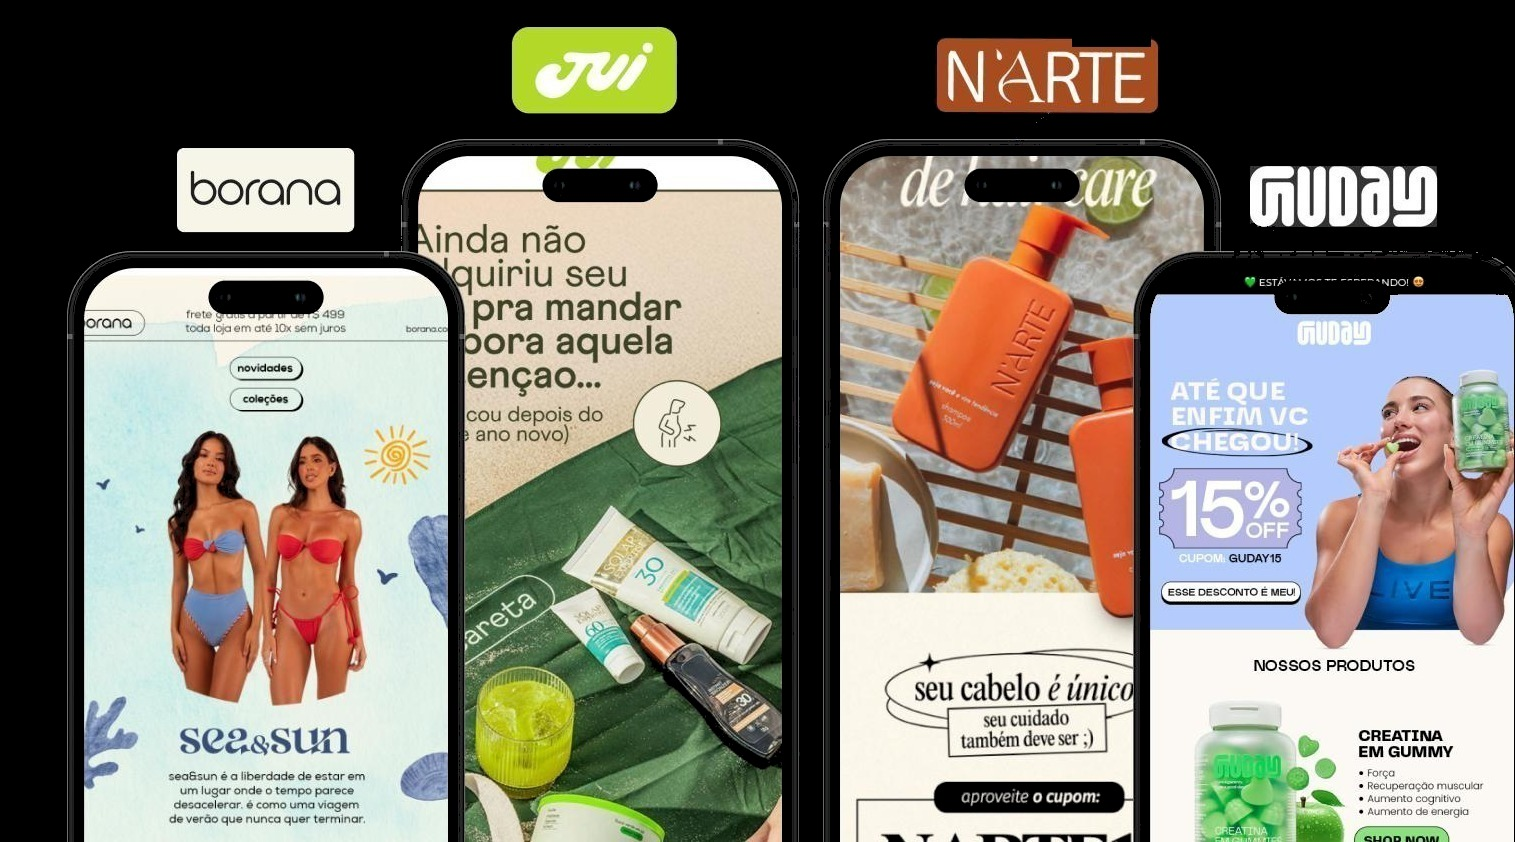
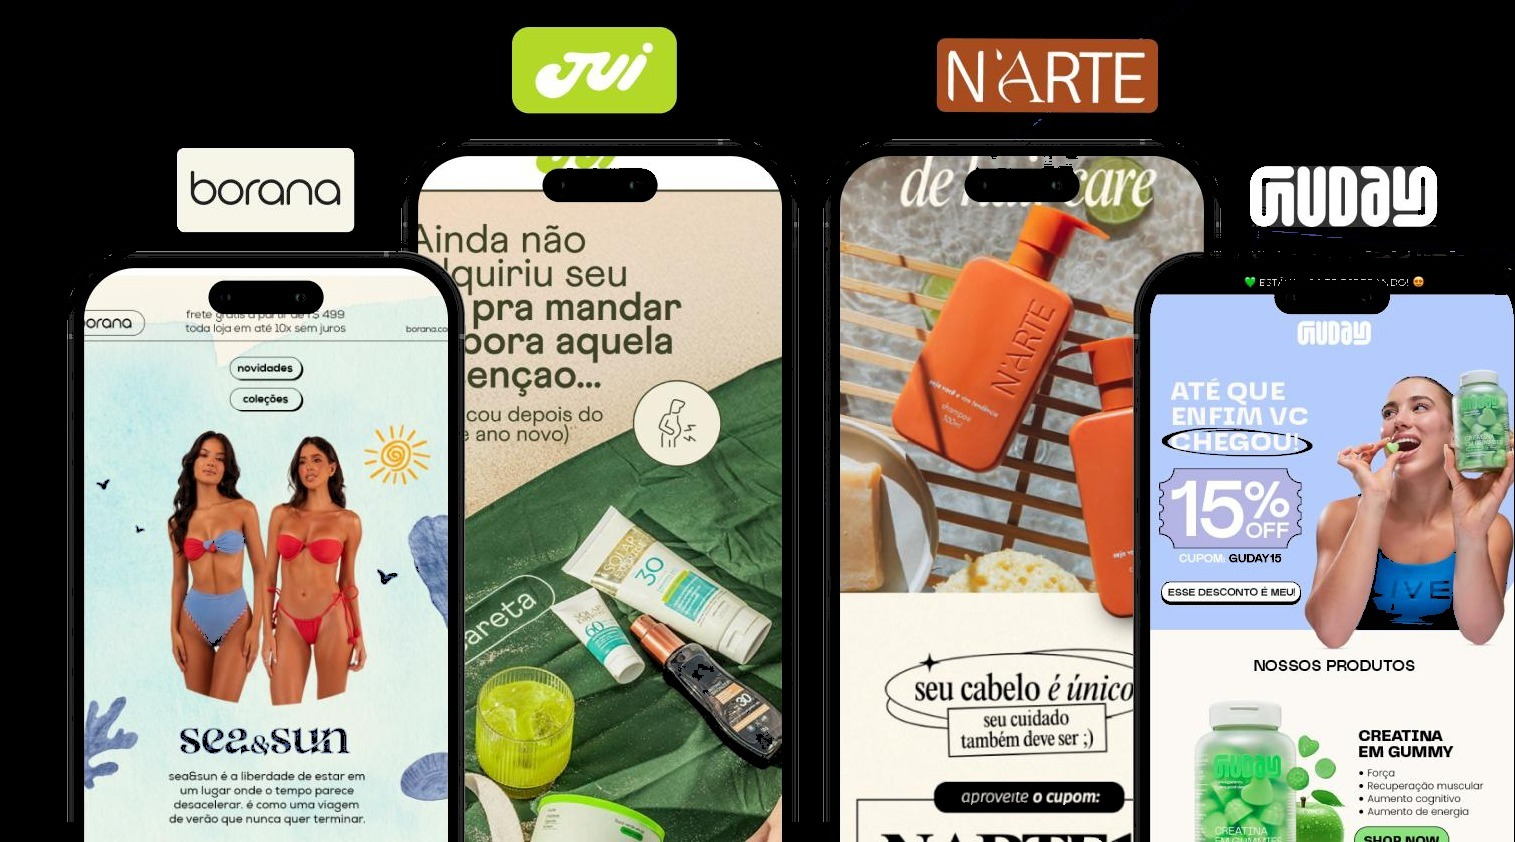
CRM: refinamentos de acabamento (mockups, mini-scroll, boxes, números)

diff --git a/index.html b/index.html
@@ -15697,8 +15697,9 @@ a.xpto-pricing-btn { text-decoration: none; }
       radial-gradient(ellipse 70% 55% at 50% 0%, rgba(155,109,255,0.14), transparent 60%),
       radial-gradient(ellipse 60% 50% at 90% 100%, rgba(13,207,232,0.10), transparent 60%),
       #07070e;
-    padding: clamp(56px, 7vh, 96px) clamp(24px, 5vw, 80px);
+    padding: clamp(26px, 4vh, 52px) clamp(24px, 5vw, 80px);
     display: flex; flex-direction: column; align-items: center; justify-content: center; text-align: center;
+    overflow: hidden;
   }
   /* títulos com largura confortável (grids/imagens já têm max-width próprio) */
   #crm-modal .crm-slideo .crm-stitle { max-width: 1100px; }
@@ -15728,12 +15729,17 @@ a.xpto-pricing-btn { text-decoration: none; }
     max-width: 720px; margin: 0 auto; line-height: 1.5;
   }
   #crm-modal .crm-mockups {
-    width: 100%; max-width: 1180px; height: auto; display: block; margin: 26px auto 0;
+    width: auto; max-width: 100%; max-height: 58vh; height: auto; display: block; margin: 20px auto 0;
+  }
+  /* fade no rodapé dos mockups: esconde o corte seco dos celulares (acabamento) */
+  #crm-modal .crm-s1 .crm-mockups {
+    -webkit-mask-image: linear-gradient(to bottom, #000 82%, transparent 100%);
+    mask-image: linear-gradient(to bottom, #000 82%, transparent 100%);
   }
   /* Slide 2 — comparação Broadcast x Régua */
   #crm-modal .crm-cmp-grid {
     display: grid; grid-template-columns: 1fr auto 1fr; align-items: stretch;
-    gap: clamp(12px, 1.8vw, 26px); width: 100%; max-width: 1120px; margin: 30px auto 0;
+    gap: clamp(12px, 1.6vw, 22px); width: 100%; max-width: 880px; margin: 28px auto 0;
   }
   #crm-modal .crm-cmp-card {
     background: rgba(255,255,255,0.025); border: 1px solid rgba(255,255,255,0.08);
@@ -15784,7 +15790,7 @@ a.xpto-pricing-btn { text-decoration: none; }
   #crm-modal .crm-tipo--goal .crm-tipo-num { background: rgba(155,109,255,0.20); border-color: rgba(155,109,255,0.42); color: #c4a8ff; }
   #crm-modal .crm-split-right { display: flex; align-items: center; justify-content: center; }
   #crm-modal .crm-split-right img {
-    width: 100%; max-width: 460px; height: auto; display: block;
+    width: auto; max-width: 100%; max-height: 78vh; height: auto; display: block; margin: 0 auto;
     border-radius: 12px; box-shadow: 0 14px 44px rgba(0,0,0,0.5);
   }
   @media (max-width: 860px) {
@@ -15792,8 +15798,8 @@ a.xpto-pricing-btn { text-decoration: none; }
     #crm-modal .crm-split-right { margin-top: 22px; }
   }
   /* KPIs + nota (slide 4) */
-  #crm-modal .crm-kpis { display: grid; grid-template-columns: 1fr 1fr; gap: 12px; width: 100%; margin: 22px 0 0; }
-  #crm-modal .crm-kpi { background: rgba(255,255,255,0.03); border: 1px solid rgba(255,255,255,0.08); border-radius: 13px; padding: 14px 16px; display: flex; flex-direction: column; gap: 3px; }
+  #crm-modal .crm-kpis { display: grid; grid-template-columns: 1fr 1fr; gap: 9px; width: 100%; max-width: 560px; margin: 20px 0 0; }
+  #crm-modal .crm-kpi { background: rgba(255,255,255,0.03); border: 1px solid rgba(255,255,255,0.08); border-radius: 12px; padding: 10px 14px; display: flex; flex-direction: column; gap: 2px; }
   #crm-modal .crm-kpi--hot { background: rgba(155,109,255,0.10); border-color: rgba(155,109,255,0.32); grid-column: 1 / -1; }
   #crm-modal .crm-kpi-val { font-size: clamp(18px,1.9vw,25px); font-weight: 900; color: #fff; letter-spacing: -0.5px; }
   #crm-modal .crm-kpi--hot .crm-kpi-val { background: linear-gradient(90deg,#c49bff,#4d8dff,#0dcfe8); -webkit-background-clip: text; -webkit-text-fill-color: transparent; background-clip: text; }
@@ -15812,7 +15818,7 @@ a.xpto-pricing-btn { text-decoration: none; }
   }
   /* imagem central preservada (slide 6) */
   #crm-modal .crm-dash {
-    width: 100%; max-width: 1080px; height: auto; display: block; margin: 26px auto 0;
+    width: auto; max-width: 100%; max-height: 60vh; height: auto; display: block; margin: 22px auto 0;
     border-radius: 12px; border: 1px solid rgba(255,255,255,0.08); box-shadow: 0 16px 48px rgba(0,0,0,0.55);
   }
   #crm-modal .crm-s6-foot {
@@ -15832,12 +15838,12 @@ a.xpto-pricing-btn { text-decoration: none; }
   #crm-modal .crm-results { display: grid; grid-template-columns: repeat(3,1fr); gap: 14px; width: 100%; max-width: 980px; margin: 26px auto 0; }
   #crm-modal .crm-res { background: rgba(155,109,255,0.08); border: 1px solid rgba(155,109,255,0.26); border-radius: 14px; padding: 22px 18px; display: flex; flex-direction: column; gap: 10px; align-items: center; text-align: center; justify-content: center; }
   #crm-modal .crm-res-lbl { font-size: 11px; font-weight: 700; letter-spacing: 0.6px; text-transform: uppercase; color: rgba(255,255,255,0.55); }
-  #crm-modal .crm-res-val { font-size: clamp(17px,1.8vw,23px); font-weight: 800; color: rgba(255,255,255,0.85); }
+  #crm-modal .crm-res-val { font-size: clamp(19px,2.1vw,26px); font-weight: 800; color: rgba(255,255,255,0.85); white-space: nowrap; }
   #crm-modal .crm-res-val strong, #crm-modal .crm-res-big {
     background: linear-gradient(90deg,#c49bff,#4d8dff,#0dcfe8);
     -webkit-background-clip: text; -webkit-text-fill-color: transparent; background-clip: text;
   }
-  #crm-modal .crm-res-big { font-size: clamp(30px,3.6vw,46px); font-weight: 900; }
+  #crm-modal .crm-res-big { font-size: clamp(42px,5.2vw,68px); font-weight: 900; }
   #crm-modal .crm-res-arrow { color: rgba(255,255,255,0.4); margin: 0 4px; }
   @media (max-width: 760px) { #crm-modal .crm-results { grid-template-columns: 1fr; } }
   /* escopo (slides 11 e 12) */
@@ -15957,7 +15963,7 @@ a.xpto-pricing-btn { text-decoration: none; }
       <section class="crm-slideo crm-cover">
         <div class="crm-eyebrow"><span></span>Case de Sucesso</div>
         <h2 class="crm-cover-title">Case da <span class="crm-accent">Guday</span></h2>
-        <p class="crm-cover-sub">E-mail marketing & CRM transformando relacionamento em recompra recorrente.</p>
+        <p class="crm-cover-sub">E-mail marketing & CRM que transformam relacionamento em&nbsp;recompra&nbsp;recorrente.</p>
       </section>
       <!-- SLIDE 8 — recriado 100% na ID (objetivos + resultados) -->
       <section class="crm-slideo">
